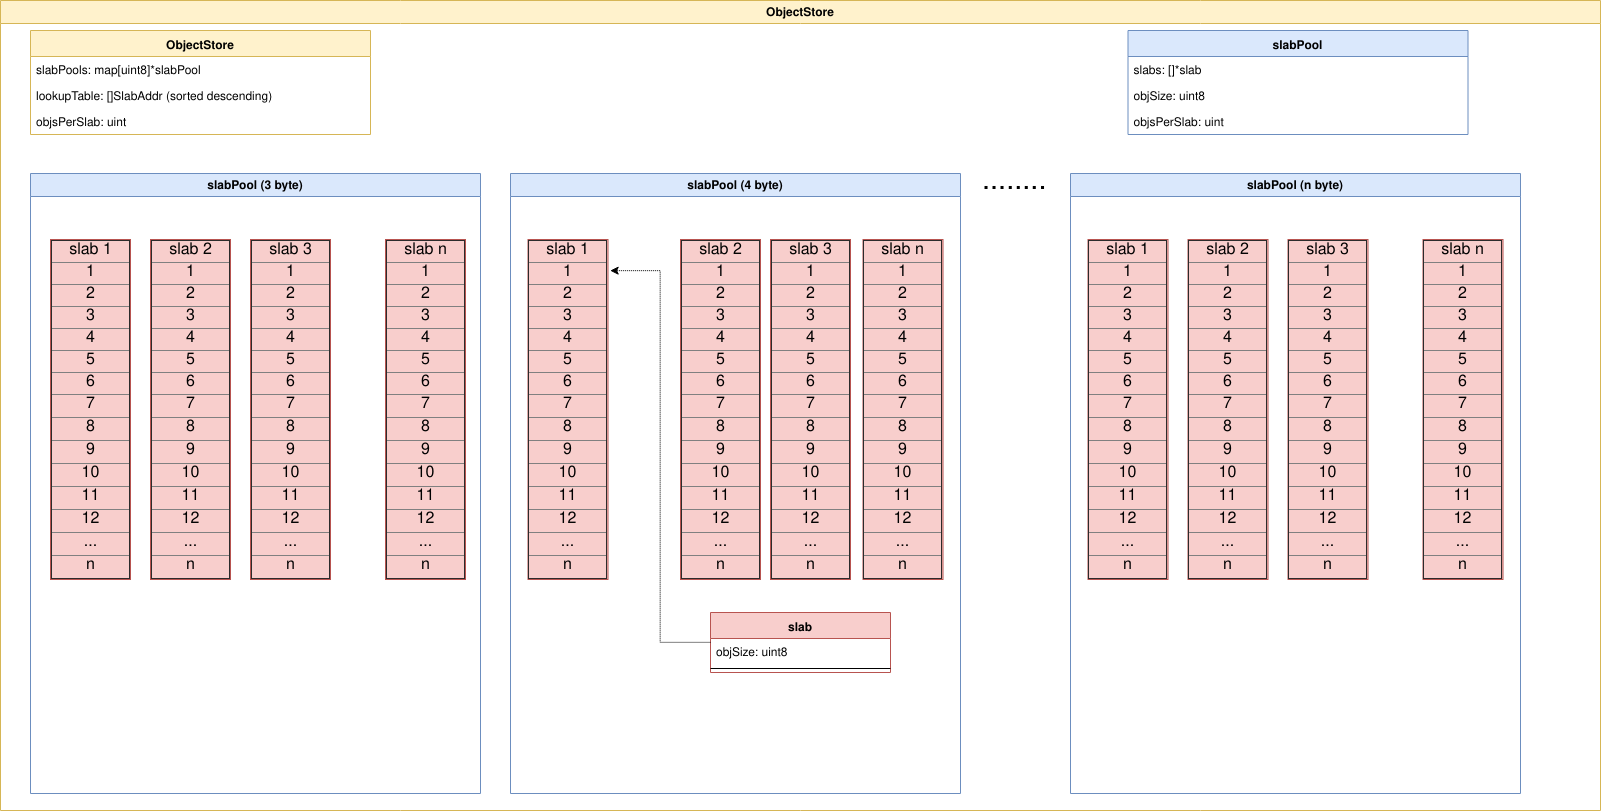
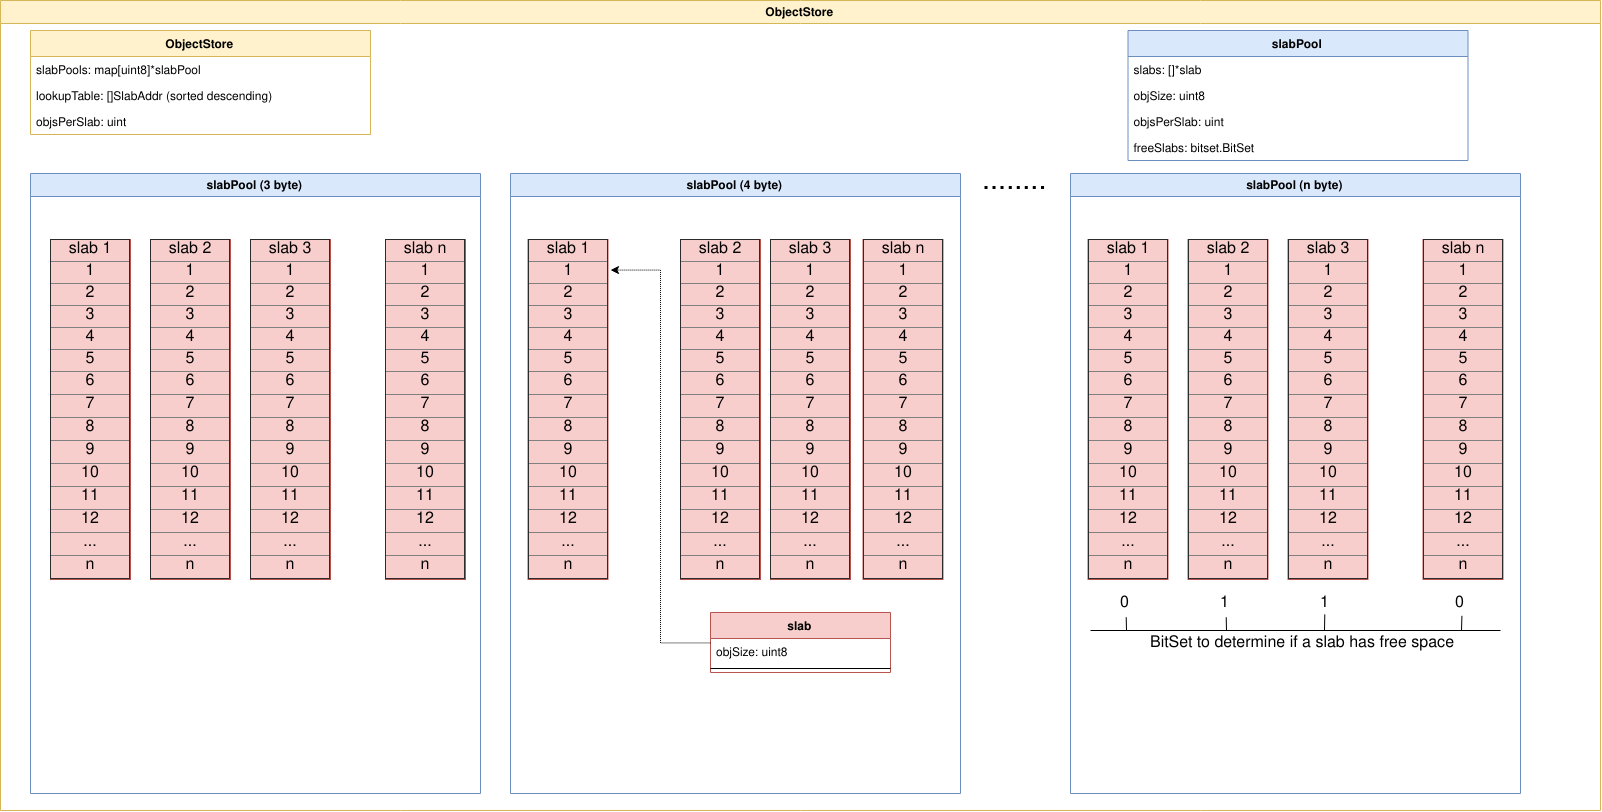
update documentation

diff --git a/README.md b/README.md
@@ -13,21 +13,27 @@ At the top level of the library is the Object Store. You can have multiple insta
 
 #### Slab Pools
 
-`slabPools` is a `map[uint8]slabPool`. The map index indicates the size (in bytes) of the objects stored in a particular pool. When attempting to add a new object if there are no available slabs in a pool a new one will be created. When a slab is completely empty it will be deleted.
+`slabPools` is a `map[uint8]*slabPool`. The map index indicates the size (in bytes) of the objects stored in a particular pool. When attempting to add a new object if there are no available slabs in a pool a new one will be created. When a slab is completely empty it will be deleted.
 
 Fragmentation is a concern if objects are frequently added and deleted.
 
 #### Lookup Table
-`lookupTable` is a `[]SlabAddr`. `SlabAddr` is a uintptr which stores the memory address of a slab.
+`lookupTable` is a `[]SlabAddr`. `SlabAddr` is a uintptr which stores the memory address of a slab. The lookupTable is sorted in descending order to speed up searches.
 
 #### Slab
-`slab` is a struct which contains a single field: `objSize uint8`. All of the data used by slabs is ***MMapped*** memory which is ignored by the Go GC. We don't actually hold references to any `slab` structs. When we need to access the data contained in a `slab` we convert the starting memory address of the `slab` into a `[]byte`, or adjust the starting address by known offsets and convert the underlying data into a different struct.
+`slab` is a struct which contains a single field: `objSize uint8`. All of the data used by slabs is ***MMapped*** memory which is ignored by the Go GC. We don't actually hold references to any `slab` structs. When we need to access the data contained in a `slab` we convert the starting memory address of the `slab` into a `[]byte`, or adjust the starting address by known offsets and convert the underlying data into a different type.
+
 * The 1st byte in a `slab` is the object size of all stored objects inside the `slab` (uint8).
 * The 2nd through 9th (or 5th if running on 32-bit architecture) bytes in a `slab` is the number of objects stored inside the `slab` (uint).
 * The next part of the `[]byte` holds the ***slice header*** and ***data*** from the `[]uint64` of `bitset.BitSet.set`.
 * Finally, the rest of the space in a `slab` is dedicated storage for objects. The required space is calculated by multiplying object size by objects per slab.
 
 ![slab diagram](docs/slab.png)
+
+## Notes
+
+* The object store is not safe for concurrent operations. You need to implement necessary locking/unlocking at the next higher level.
+* It has ***not*** been extensively tested on 32-bit architecture.
 
 ## Limitations
 
@@ -36,3 +42,4 @@ Fragmentation is a concern if objects are frequently added and deleted.
 ## See Also
 
 * We use https://github.com/willf/bitset for keeping track of free object slots in slabs.
+* For an example of the object store in action check out https://github.com/robert-milan/go-object-interning
